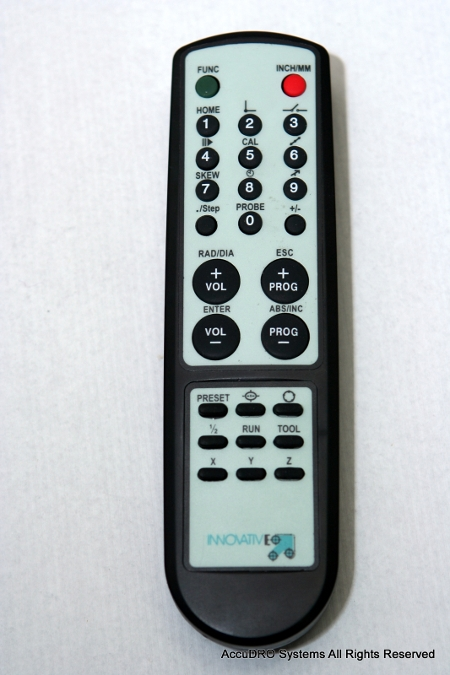
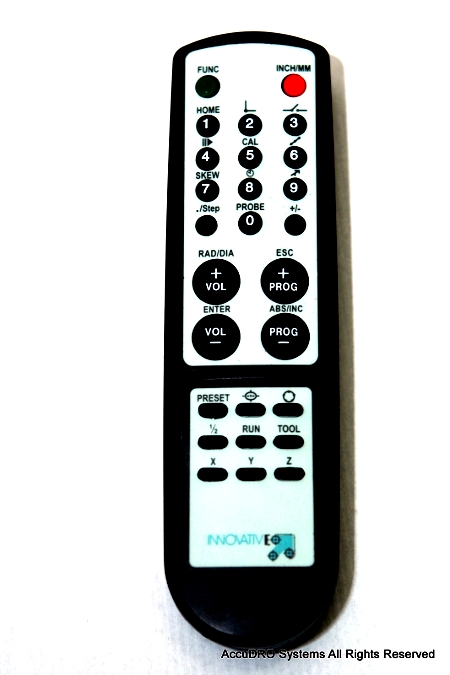
added remote control info

diff --git a/includes/languages/english/remote_control.php b/includes/languages/english/remote_control.php
@@ -1,0 +1,37 @@
+<?php
+/*
+  $Id$
+
+  osCommerce, Open Source E-Commerce Solutions
+  http://www.oscommerce.com
+
+  Copyright (c) 2002 osCommerce
+
+  Released under the GNU General Public License
+*/
+
+define('NAVBAR_TITLE', 'Remote Control');
+define('HEADING_TITLE', 'Remote Control');
+
+define('TEXT_REMOTE_CONTROL', '
+
+<strong><br />
+All our DRO kits come with a Remote control:</strong><br />
+  <br />
+
+<table border="0">
+  <tr>
+    <td><img src="images/remote_controller.JPG" > </td>
+    <td>
+        <strong>Remote control comes in handy:</strong><br />
+        <ul>
+             <li>When the DRO is not easily accessible to the operator. </li>
+             <li>When operator needs to be close to the job while adjusting DRO settings.</li>
+        </ul>
+    </td>
+  </tr>
+</table>
+<br/>
+<br/>
+');
+?>

diff --git a/remote_control.php b/remote_control.php
@@ -12,9 +12,9 @@
 
   require('includes/application_top.php');
 
-  require(DIR_WS_LANGUAGES . $language . '/' . FILENAME_SHIPPING);
+  require(DIR_WS_LANGUAGES . $language . '/' . FILENAME_REMOTE_CONTROL);
 
-  $breadcrumb->add(NAVBAR_TITLE, tep_href_link(FILENAME_SHIPPING));
+  $breadcrumb->add(NAVBAR_TITLE, tep_href_link(FILENAME_REMOTE_CONTROL));
 
   require(DIR_WS_INCLUDES . 'template_top.php');
 ?>
@@ -23,7 +23,7 @@
 
 <div class="contentContainer">
   <div class="contentText">
-    <?php echo TEXT_SHIPPING_INFORMATION; ?>
+    <?php echo TEXT_REMOTE_CONTROL; ?>
   </div>
 
   <div class="buttonSet">
